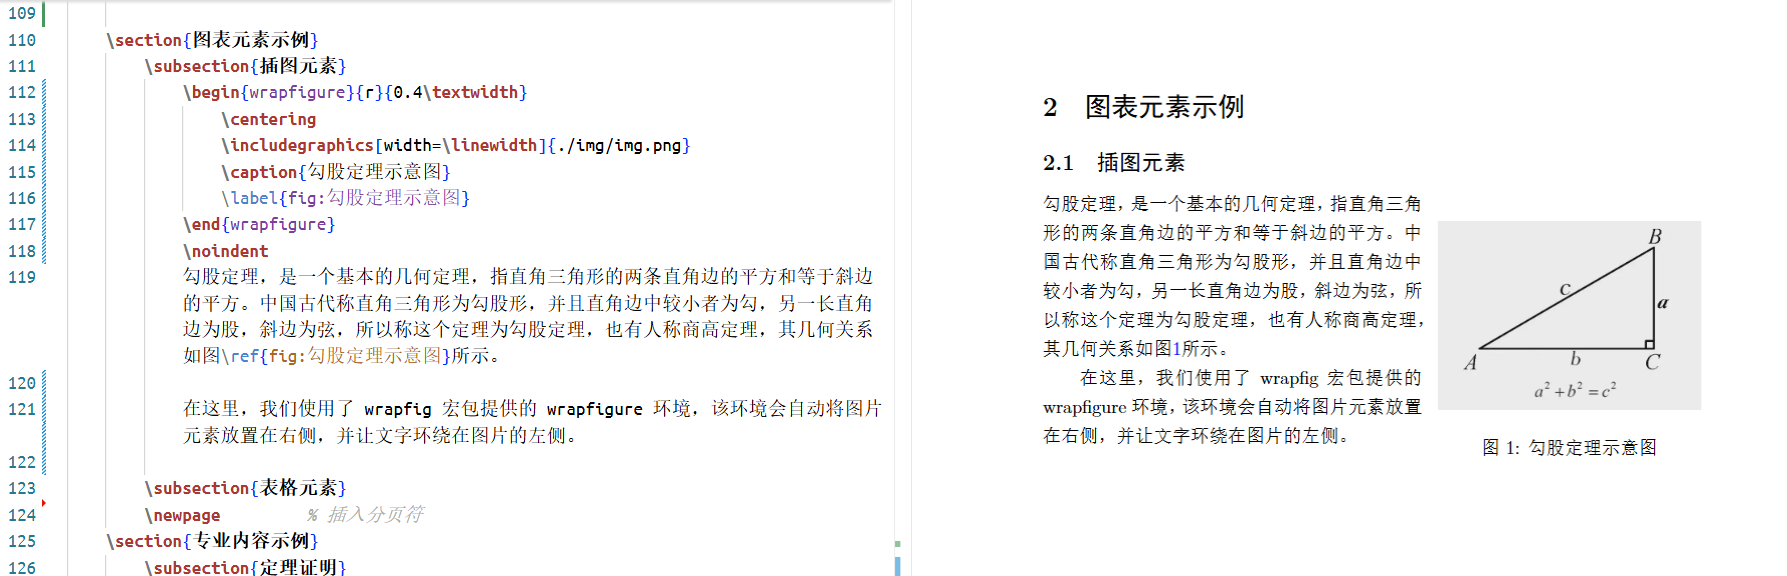
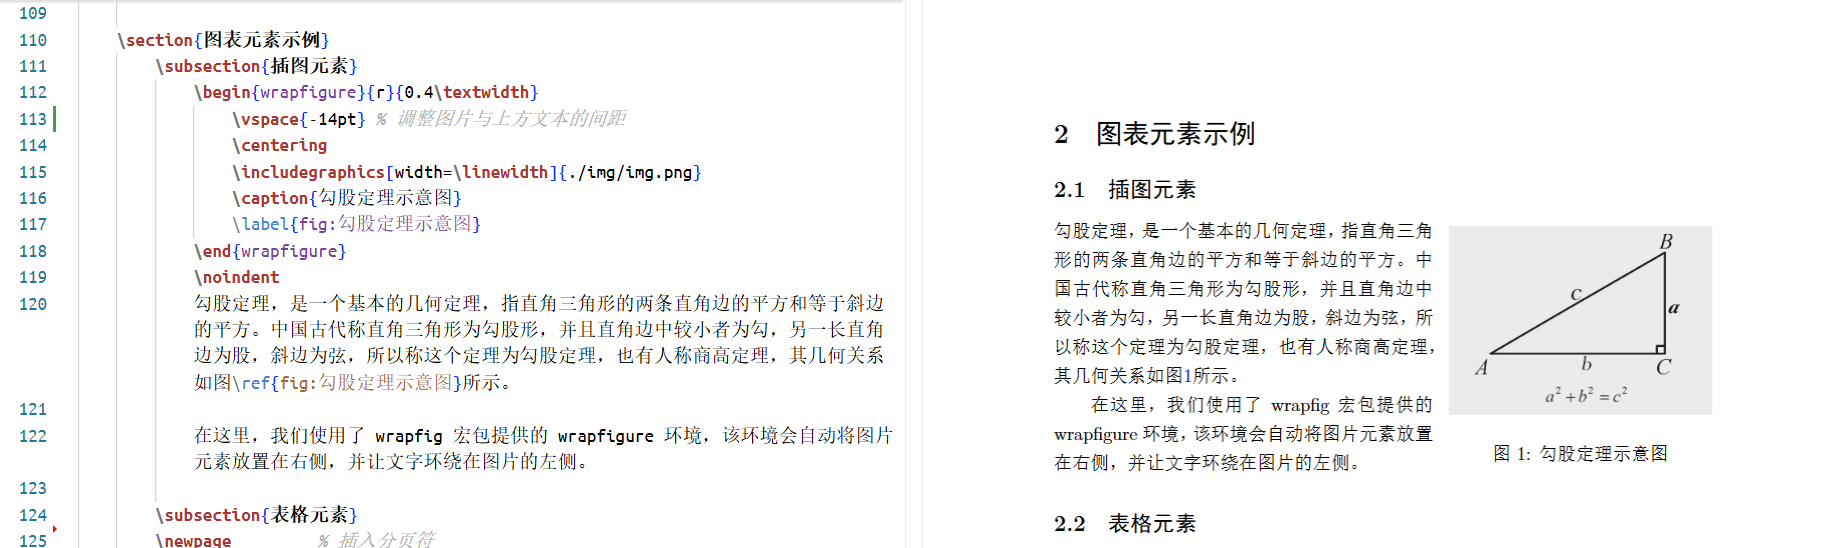
更新：latex学习笔记之学术文档排版

diff --git a/02_基础技术研究/00.计算机语言/02.标记语言/LaTeX/example/cmd_demo/demo.tex b/02_基础技术研究/00.计算机语言/02.标记语言/LaTeX/example/cmd_demo/demo.tex
@@ -110,6 +110,7 @@
     \section{图表元素示例}
         \subsection{插图元素}
             \begin{wrapfigure}{r}{0.4\textwidth}
+                \vspace{-14pt} % 调整图片与上方文本的间距
                 \centering
                 \includegraphics[width=\linewidth]{./img/img.png}
                 \caption{勾股定理示意图}

diff --git a/02_基础技术研究/00.计算机语言/02.标记语言/LaTeX/LaTeX学习笔记：学术文档排版.md b/02_基础技术研究/00.计算机语言/02.标记语言/LaTeX/LaTeX学习笔记：学术文档排版.md
@@ -84,6 +84,7 @@
     \section{图表元素示例}
         \subsection{插图元素}
             \begin{wrapfigure}{r}{0.4\textwidth}
+                \vspace{-14pt} % 调整图片与上方文本的间距
                 \centering
                 \includegraphics[width=\linewidth]{./img/img.png}
                 \caption{勾股定理示意图}
@@ -97,7 +98,7 @@
 \end{document}
 ```
 
-在上述示例中，我们首先在文档的全局设置区使用`\usepackage`命令加载了`wrapfig`宏包，然后在“插图元素”这个二级标题下面使用`wrapfigure`环境定义了一个浮动体，并为其设置了两个参数，第一个参数设置的是浮动体的水平对齐方式，这里设置的`r`表示的是向右浮动，如果想让它向左浮动就需将其设置为`l`；第二个参数设置的是浮动体的宽度，这里设置的是`0.4\textwidth`（`\textwidth`表示当前文本区域的宽度，这里指的是浮动体宽度为当前文本区宽度的40%）。在`wrapfigure`环境中，我们同样可以使用`\includegraphics`命令来插入图片元素，并为其添加了标题和标签。
+在上述示例中，我们首先在文档的全局设置区使用`\usepackage`命令加载了`wrapfig`宏包，然后在“插图元素”这个二级标题下面使用`wrapfigure`环境定义了一个浮动体，并为其设置了两个参数，第一个参数设置的是浮动体的水平对齐方式，这里设置的`r`表示的是向右浮动，如果想让它向左浮动就需将其设置为`l`；第二个参数设置的是浮动体的宽度，这里设置的是`0.4\textwidth`（`\textwidth`表示当前文本区域的宽度，这里指的是浮动体宽度为当前文本区宽度的 40%）。在`wrapfigure`环境中，我们同样可以使用`\includegraphics`命令来插入图片元素，并为其添加了标题和标签。
 
 现在，如果我们再次编译这个文档，就可以看到“插图元素”这个二级标题下面已经出现了这个勾股定理的示意图，如图 3 所示：
 
